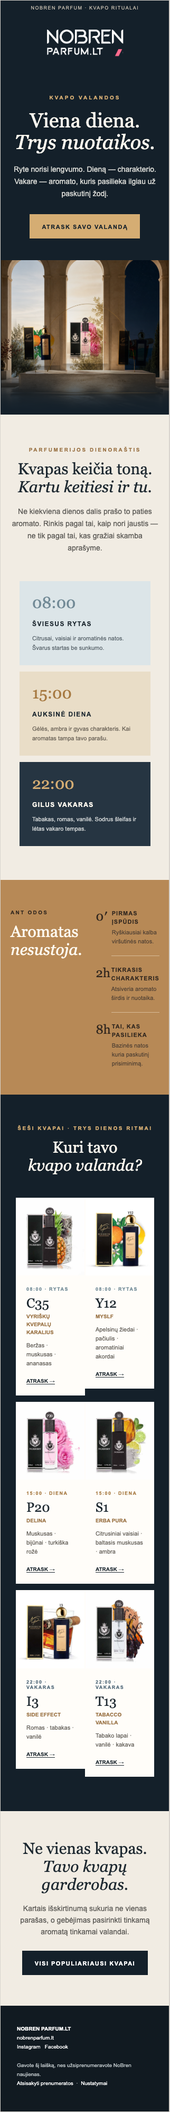
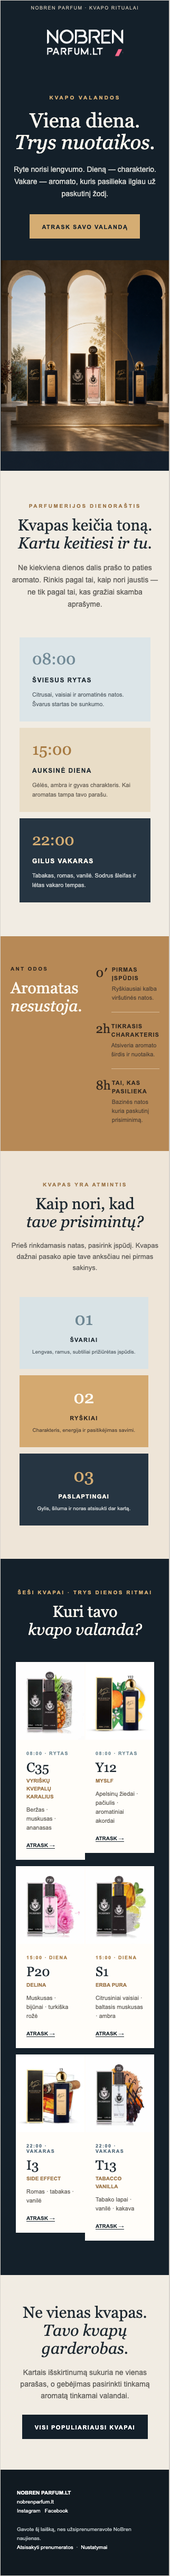
Refine hero and add fragrance memory block

diff --git a/campaigns/2026-08-kvapo-valandos/newsletter.html b/campaigns/2026-08-kvapo-valandos/newsletter.html
@@ -19,7 +19,7 @@ html,body{margin:0!important;padding:0!important;width:100%!important;background
   <div class="sans" style="max-width:430px;padding-top:20px;font-size:14px;line-height:23px;color:#d5d6d2">Ryte norisi lengvumo. Dieną — charakterio. Vakare — aromato, kuris pasilieka ilgiau už paskutinį žodį.</div>
   <table role="presentation" align="center" style="margin-top:27px"><tr><td bgcolor="#d5ad73" style="padding:14px 23px"><a href="https://nobrenparfum.lt/lt/populiariausi-kvepalai" target="_blank" class="sans" style="font-size:11px;line-height:14px;letter-spacing:1.5px;font-weight:bold;color:#14202a">ATRASK SAVO VALANDĄ</a></td></tr></table>
 </td></tr>
-<tr><td bgcolor="#14202a" style="font-size:0;line-height:0"><img src="assets/hero/hero.png" width="600" alt="NoBren aromatai nuo ryto iki vakaro" style="width:100%;height:auto"></td></tr>
+<tr><td bgcolor="#14202a" style="font-size:0;line-height:0"><img src="assets/hero/hero-v2.png" width="600" alt="NoBren aromatai nuo ryto iki vakaro" style="width:100%;height:auto"></td></tr>
 
 <tr><td class="px" align="center" bgcolor="#f1ece3" style="padding:59px 42px 29px">
   <div class="sans" style="font-size:10px;line-height:15px;letter-spacing:2.6px;font-weight:bold;color:#9b7447">PARFUMERIJOS DIENORAŠTIS</div>
@@ -40,6 +40,19 @@ html,body{margin:0!important;padding:0!important;width:100%!important;background
     <tr><td width="42" valign="top" style="padding-top:18px"><div class="serif" style="font-size:24px;color:#30261e">2h</div></td><td style="padding:18px 0;border-bottom:1px solid #d8bb98"><div class="sans" style="font-size:11px;line-height:16px;font-weight:bold;letter-spacing:1px;color:#30261e">TIKRASIS CHARAKTERIS</div><div class="sans" style="padding-top:4px;font-size:11px;line-height:17px;color:#493b30">Atsiveria aromato širdis ir nuotaika.</div></td></tr>
     <tr><td width="42" valign="top" style="padding-top:18px"><div class="serif" style="font-size:24px;color:#30261e">8h</div></td><td style="padding-top:18px"><div class="sans" style="font-size:11px;line-height:16px;font-weight:bold;letter-spacing:1px;color:#30261e">TAI, KAS PASILIEKA</div><div class="sans" style="padding-top:4px;font-size:11px;line-height:17px;color:#493b30">Bazinės natos kuria paskutinį prisiminimą.</div></td></tr></table>
   </td></tr></table>
+</td></tr>
+
+<tr><td class="px" align="center" bgcolor="#eee5d8" style="padding:56px 38px 31px">
+  <div class="sans" style="font-size:10px;line-height:15px;letter-spacing:2.5px;font-weight:bold;color:#9b7447">KVAPAS YRA ATMINTIS</div>
+  <div class="serif title" style="padding-top:12px;font-size:40px;line-height:44px;color:#1d2830">Kaip nori, kad<br><i>tave prisimintų?</i></div>
+  <div class="sans" style="padding-top:17px;font-size:13px;line-height:21px;color:#5d5b57">Prieš rinkdamasis natas, pasirink įspūdį. Kvapas dažnai pasako apie tave anksčiau nei pirmas sakinys.</div>
+</td></tr>
+<tr><td bgcolor="#eee5d8" style="padding:8px 30px 57px">
+  <table role="presentation" width="100%" class="stack"><tr>
+    <td width="33.33%" valign="top" style="padding:6px"><table role="presentation" width="100%" bgcolor="#d9e3e6"><tr><td class="moment" align="center" style="padding:27px 17px 29px"><div class="serif" style="font-size:33px;line-height:36px;color:#6e8793">01</div><div class="sans" style="padding-top:13px;font-size:11px;line-height:16px;letter-spacing:1.3px;font-weight:bold;color:#1d2830">ŠVARIAI</div><div class="sans" style="padding-top:7px;font-size:10px;line-height:16px;color:#58636a">Lengvas, ramus, subtiliai prižiūrėtas įspūdis.</div></td></tr></table></td>
+    <td width="33.33%" valign="top" style="padding:6px"><table role="presentation" width="100%" bgcolor="#d4a970"><tr><td class="moment" align="center" style="padding:27px 17px 29px"><div class="serif" style="font-size:33px;line-height:36px;color:#fffaf0">02</div><div class="sans" style="padding-top:13px;font-size:11px;line-height:16px;letter-spacing:1.3px;font-weight:bold;color:#30261e">RYŠKIAI</div><div class="sans" style="padding-top:7px;font-size:10px;line-height:16px;color:#493b30">Charakteris, energija ir pasitikėjimas savimi.</div></td></tr></table></td>
+    <td width="33.33%" valign="top" style="padding:6px"><table role="presentation" width="100%" bgcolor="#263542"><tr><td class="moment" align="center" style="padding:27px 17px 29px"><div class="serif" style="font-size:33px;line-height:36px;color:#d5ad73">03</div><div class="sans" style="padding-top:13px;font-size:11px;line-height:16px;letter-spacing:1.3px;font-weight:bold;color:#fffaf0">PASLAPTINGAI</div><div class="sans" style="padding-top:7px;font-size:10px;line-height:16px;color:#ccd0d1">Gylis, šiluma ir noras atsisukti dar kartą.</div></td></tr></table></td>
+  </tr></table>
 </td></tr>
 
 <tr><td class="px" align="center" bgcolor="#14202a" style="padding:56px 44px 28px"><div class="sans" style="font-size:10px;line-height:15px;letter-spacing:2.5px;font-weight:bold;color:#d5ad73">ŠEŠI KVAPAI · TRYS DIENOS RITMAI</div><div class="serif title" style="padding-top:12px;font-size:42px;line-height:46px;color:#fffaf0">Kuri tavo<br><i>kvapo valanda?</i></div></td></tr>

diff --git a/campaigns/2026-08-kvapo-valandos/BRAND_NOTES.md b/campaigns/2026-08-kvapo-valandos/BRAND_NOTES.md
@@ -1,8 +1,8 @@
 # NoBren kampanija: „Kvapo valandos“
 
 - Tema: kvapų garderobas skirtingoms dienos valandoms.
-- Hero: originali aušros, auksinės dienos ir vidurnakčio architektūrinė scena; įkomponuoti tikri Y12, P20 ir I3 NoBren produktų atvaizdai.
-- Edukaciniai blokai: trys dienos ritmai ir aromato raida ant odos (0 min., 2 val., 8 val.).
+- Hero: vientisa aušros, auksinės dienos ir vidurnakčio architektūrinė scena; Y12, P20 ir I3 stovi ant bendro travertino podiumo su vieningu apšvietimu, šešėliais ir atspindžiais.
+- Edukaciniai blokai: trys dienos ritmai, aromato raida ant odos (0 min., 2 val., 8 val.) ir „Kaip nori, kad tave prisimintų?“ pasirinkimas.
 - Produktai: C35, Y12, P20, S1, I3 ir T13.
 - Subject: Kuri tavo kvapo valanda?
 - Preheader: Šeši NoBren aromatai trims skirtingoms dienos nuotaikoms — nuo šviesaus ryto iki sodraus vakaro.
